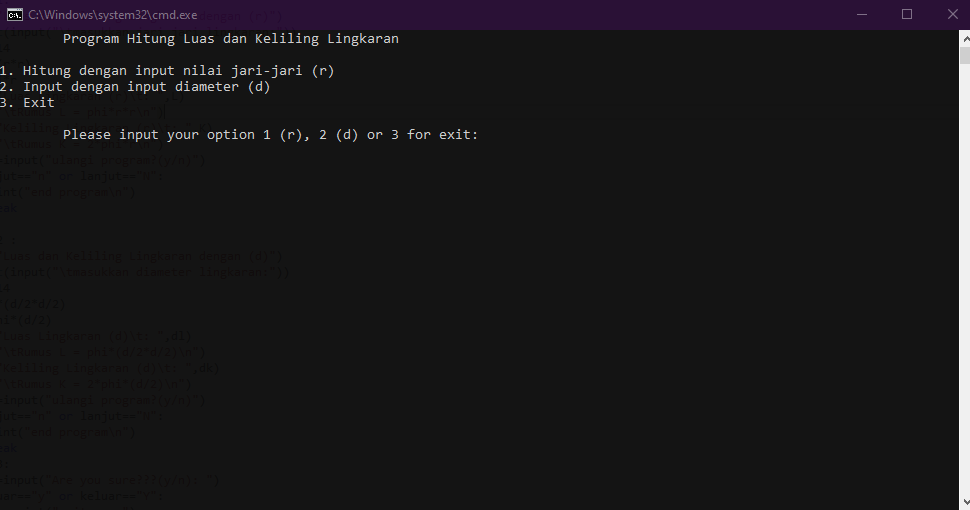
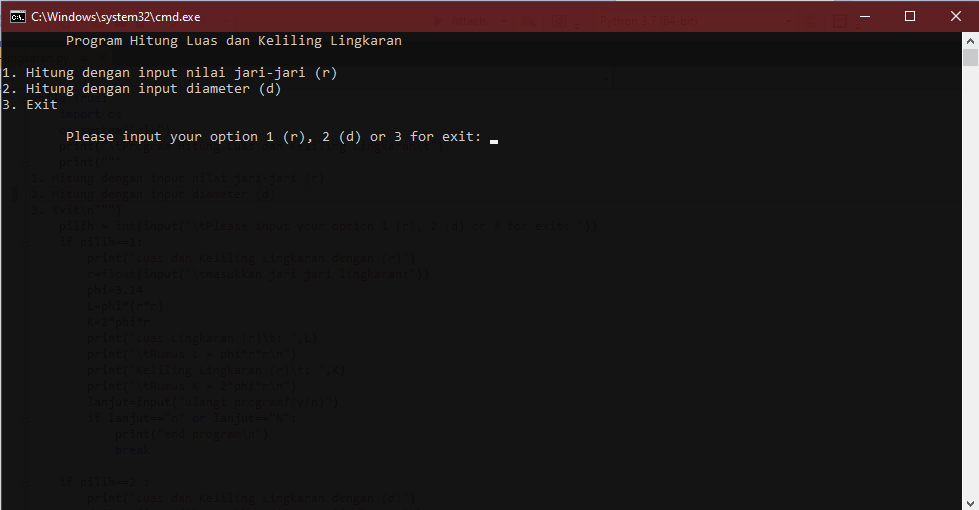
perubahan

Changed region(s): [[0.0, 0.0, 1.0, 1.0], [0.0, 0.1176, 0.3402, 0.2353], [0.0619, 0.2353, 0.4948, 0.2941]]

diff --git a/README.md b/README.md
@@ -28,7 +28,6 @@ Program ini berjalan apabila user sudah memilih angka 1,2 atau 3 (keluar program
 </p>
 
 3. <b>Source code<b><p>
-
 ```
 while True:
     import os
@@ -36,7 +35,7 @@ while True:
     print("\tProgram Hitung Luas dan Keliling Lingkaran\t")
     print("""
 1. Hitung dengan input nilai jari-jari (r)
-2. Input dengan input diameter (d)
+2. Hitung dengan input diameter (d)
 3. Exit\n""")
     pilih = int(input("\tPlease input your option 1 (r), 2 (d) or 3 for exit: "))
     if pilih==1:
@@ -72,7 +71,7 @@ while True:
         keluar=input("Are you sure???(y/n): ")
         if keluar=="y" or keluar=="Y":
                 print("exit.....")
-                break
+                break```
 ```
 4. <b>Tampilan Program<b><p>
 
